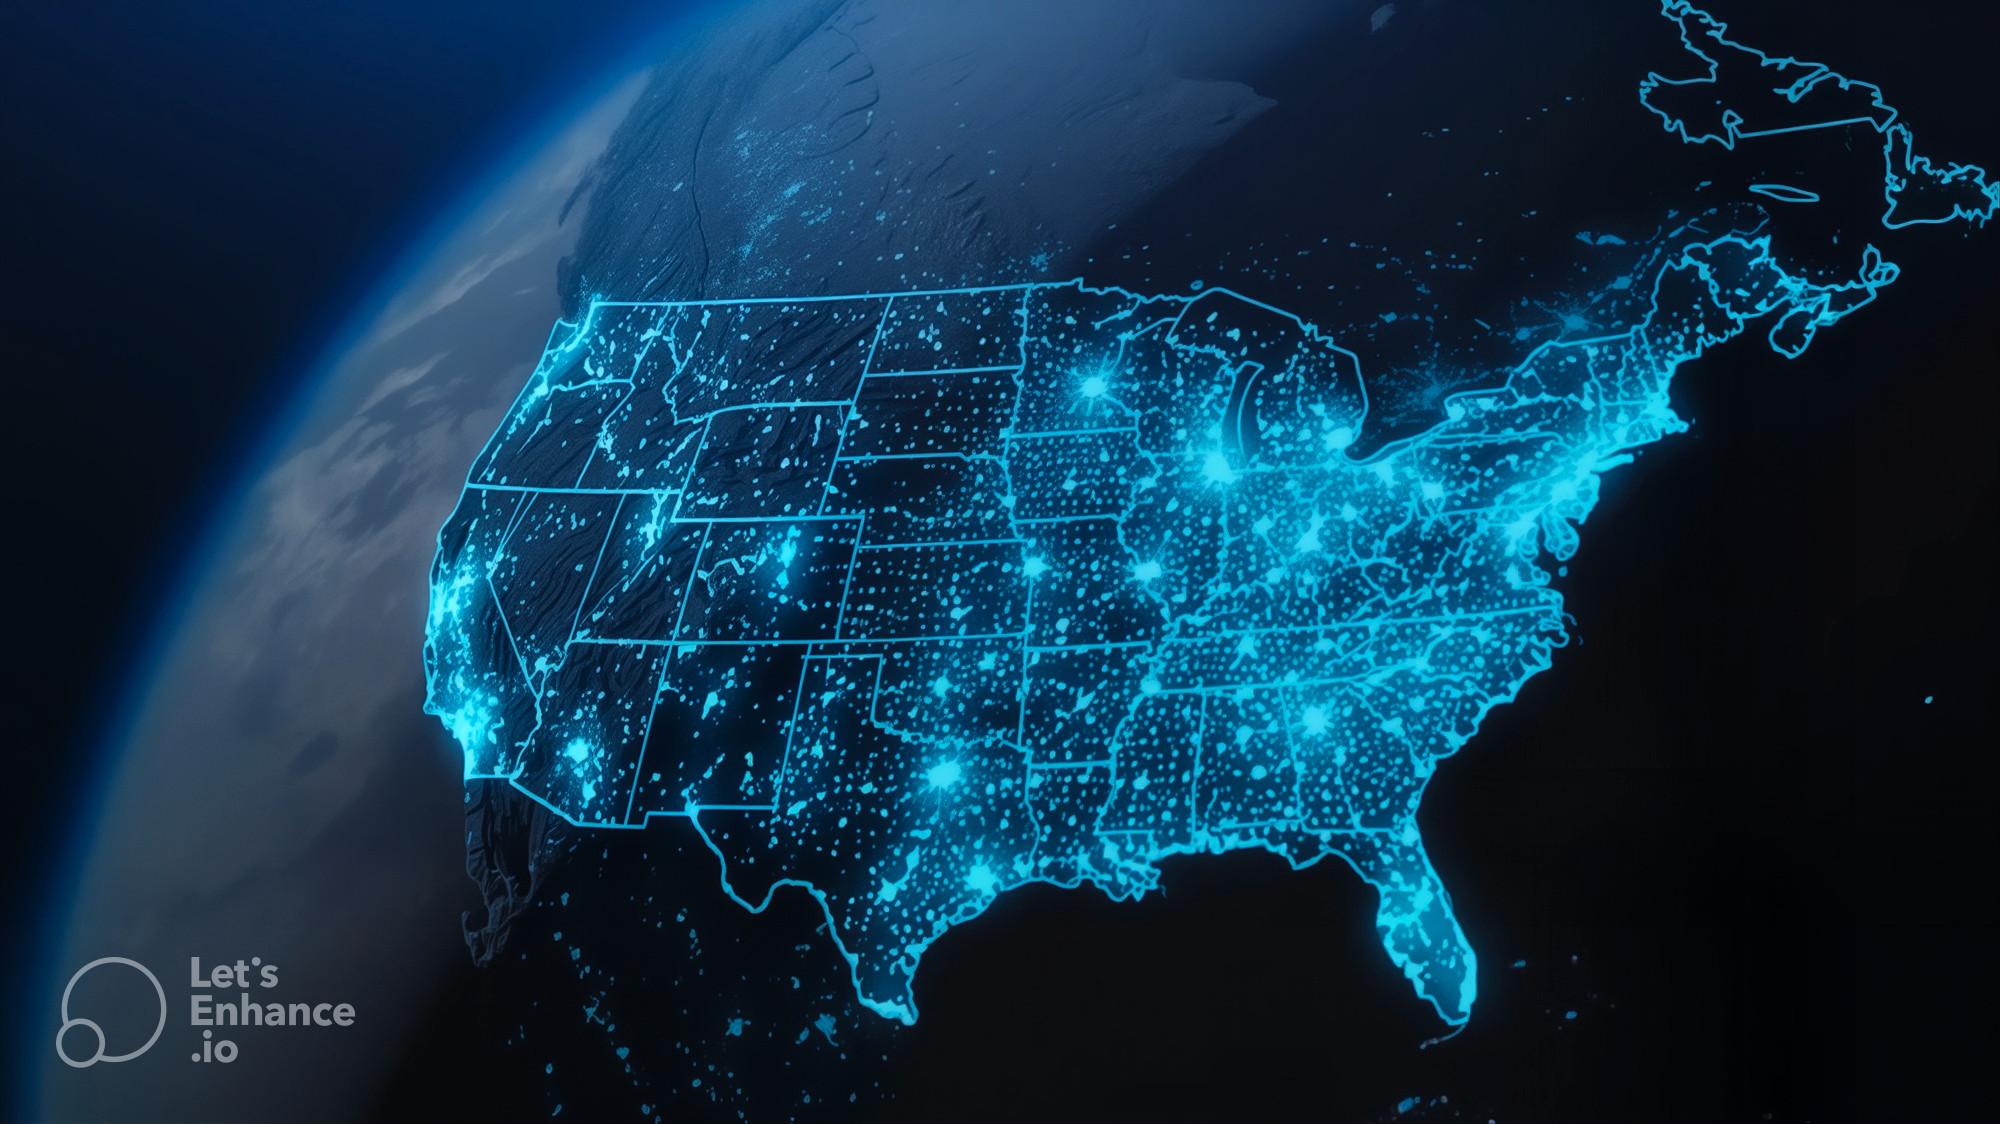
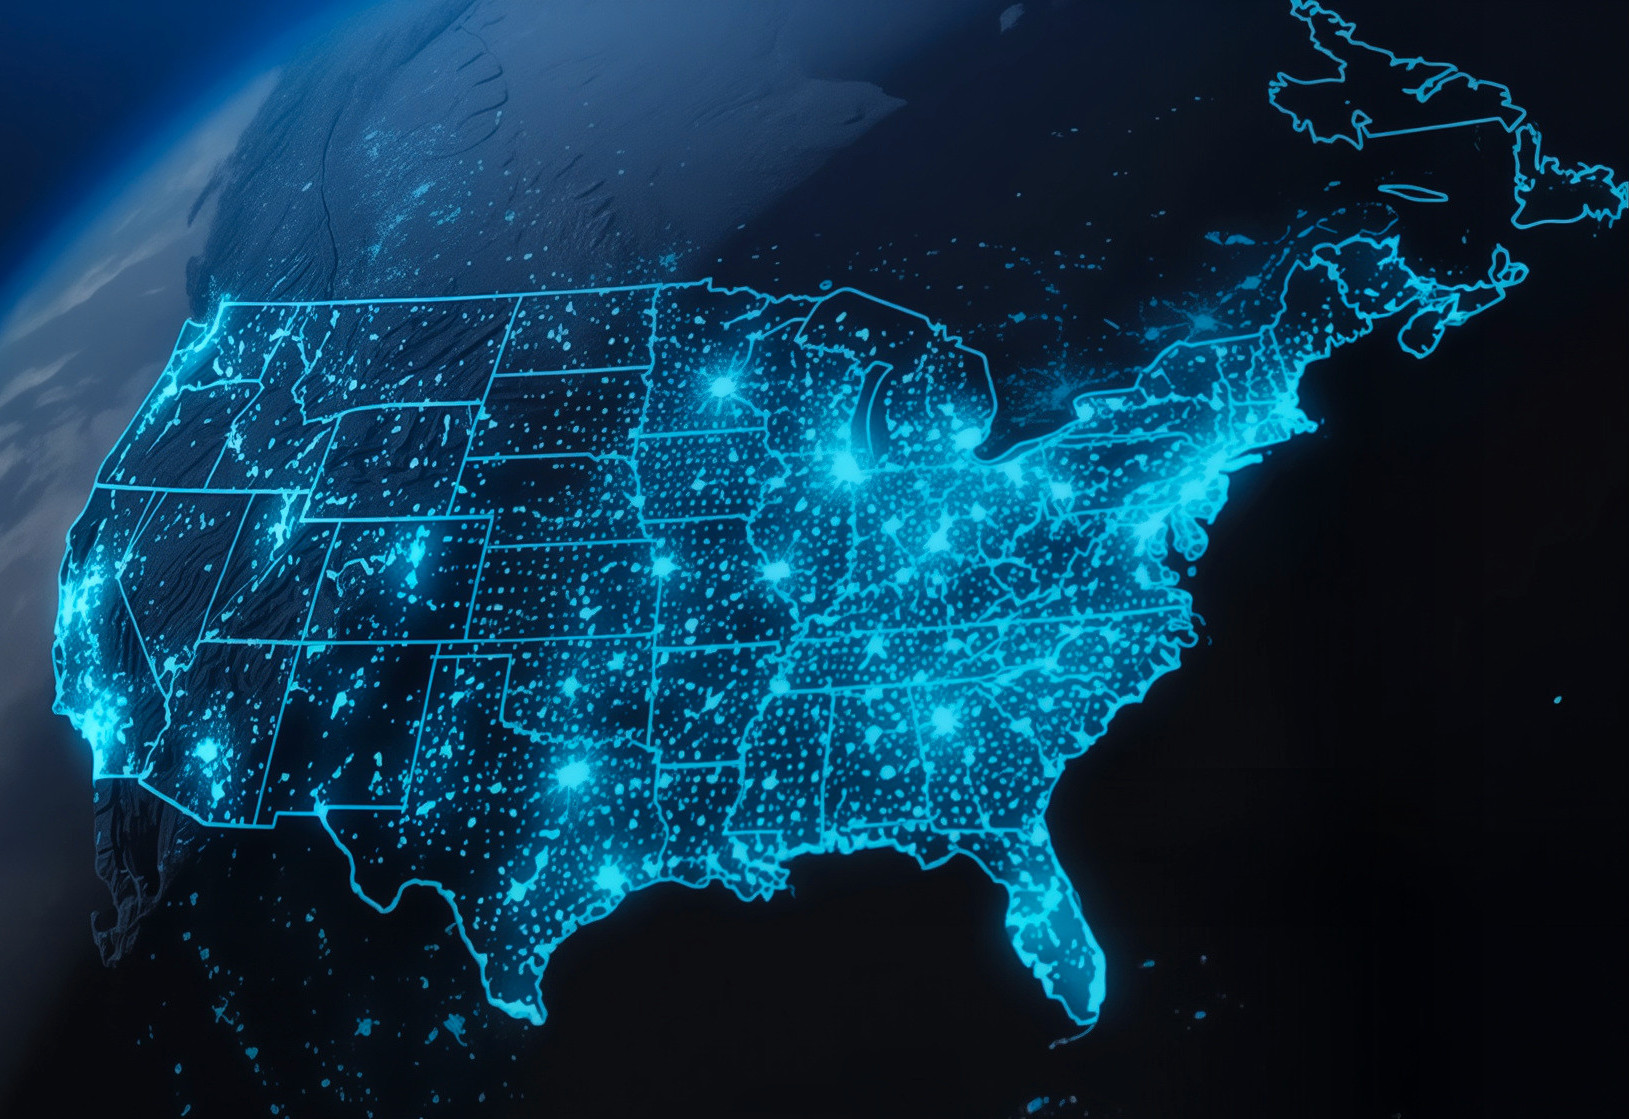
ritocchi immagini

diff --git a/index.html b/index.html
@@ -638,7 +638,7 @@ Completed a Bachelor's degree in <b>Business Administration</b>, gaining a compr
 
 							<div class="col-md-6">
 								<div class="fh5co-blog animate-box">
-									<a href="#" class="blog-bg" style="background-image: url(images/sound-engineer-using-mixing-desk_LE_upscale_ultra_x4_intensity_10_size_of_changes_10.jpg);"></a>
+									<a href="#" class="blog-bg" style="background-image: url(images/sound-engineer-using-mixing-desk_LE_upscale_ultra_x4_intensity_10_size_of_changes_10\ copia.jpg);"></a>
 									<div class="blog-text">
 										<span class="posted_on">Mar. 15th 2016</span>
 										<h3><a href="#"></a>BI Analysis <p>from USA Crimes</h3>
